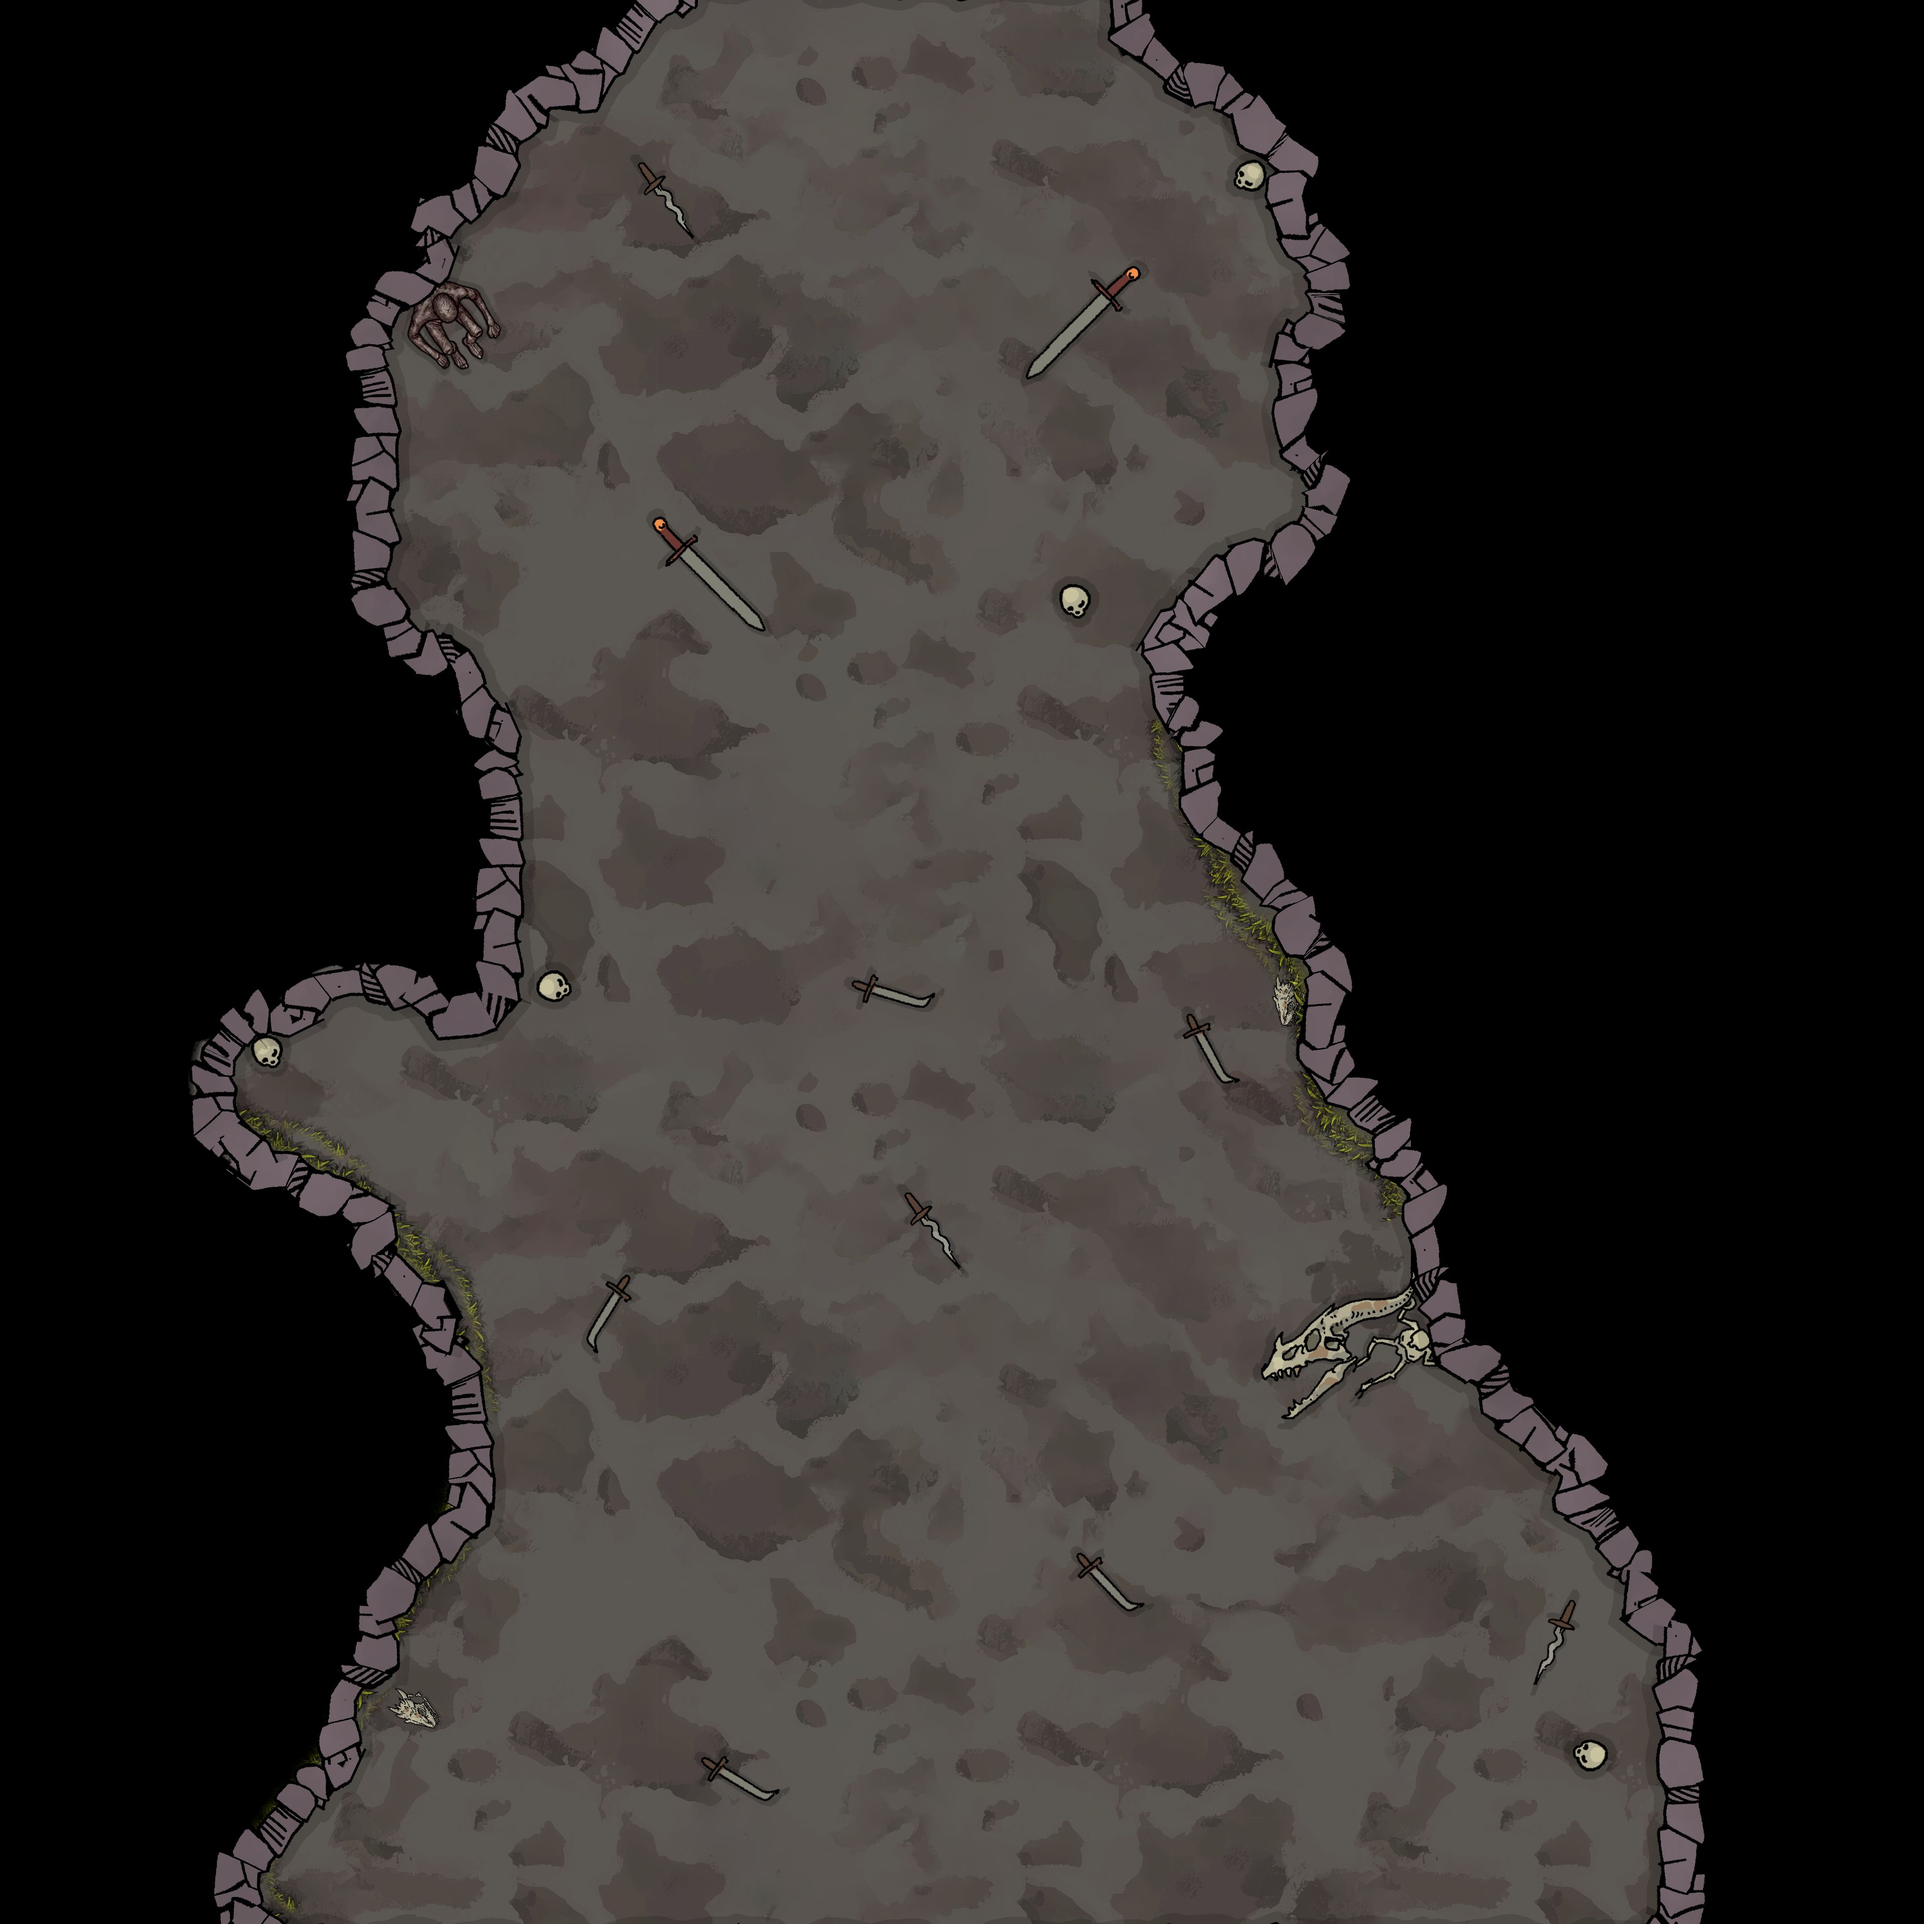
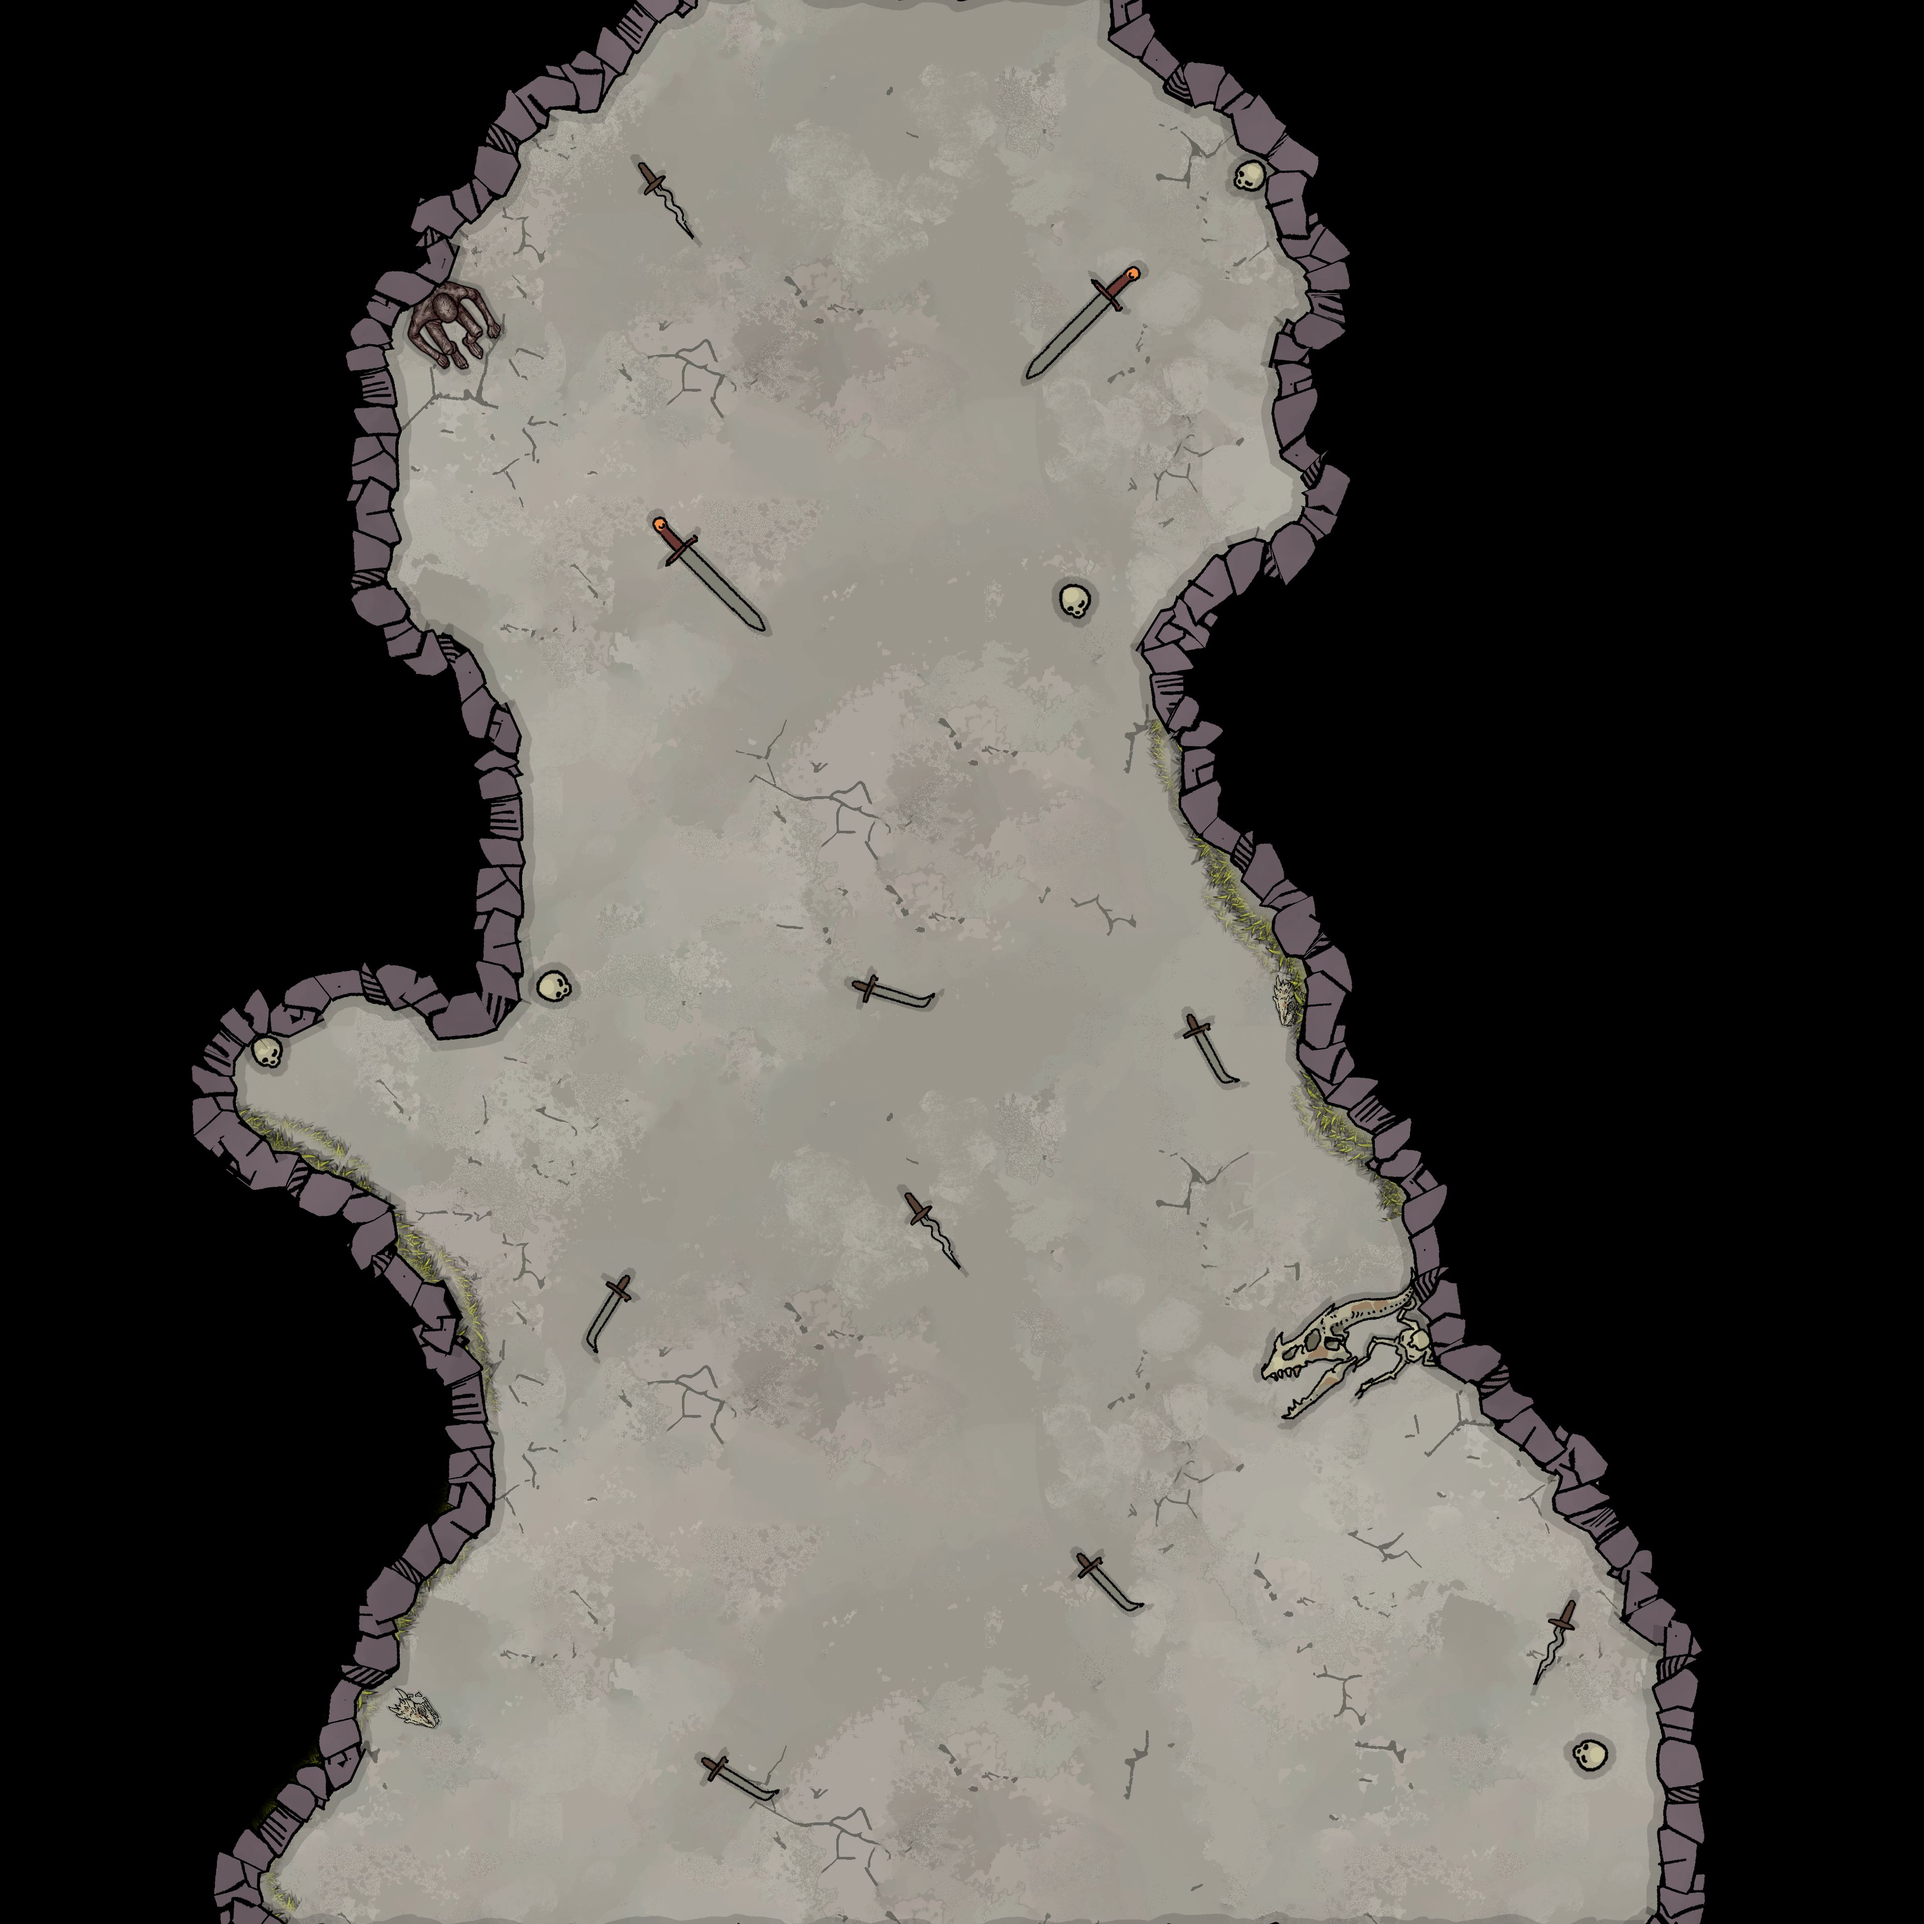
Update: Artwork and minor fixes

diff --git a/CustomMaps/CustomCreatures.tsx b/CustomMaps/CustomCreatures.tsx
@@ -161,7 +161,7 @@
   <properties>
    <property name="Id" value="Nuglub"/>
   </properties>
-  <image source="Creatures/UnknownCreature.png" width="256" height="256"/>
+  <image source="CustomCreatures/Nuglub.png" width="256" height="256"/>
  </tile>
  <tile id="27">
   <properties>

diff --git a/Dawnsbury.Mods.Creatures.RoguelikeMode/Content/Creatures/L1/DrowAssassin.cs b/Dawnsbury.Mods.Creatures.RoguelikeMode/Content/Creatures/L1/DrowAssassin.cs
@@ -2,16 +2,21 @@
 using Dawnsbury.Auxiliary;
 using Dawnsbury.Core;
 using Dawnsbury.Core.Animations;
+using Dawnsbury.Core.Animations.Movement;
 using Dawnsbury.Core.CharacterBuilder.FeatsDb.Common;
 using Dawnsbury.Core.CombatActions;
 using Dawnsbury.Core.Coroutines;
 using Dawnsbury.Core.Coroutines.Options;
 using Dawnsbury.Core.Creatures;
 using Dawnsbury.Core.Creatures.Parts;
+using Dawnsbury.Core.Intelligence;
 using Dawnsbury.Core.Mechanics;
 using Dawnsbury.Core.Mechanics.Core;
 using Dawnsbury.Core.Mechanics.Enumerations;
+using Dawnsbury.Core.Mechanics.Targeting;
 using Dawnsbury.Core.Mechanics.Treasure;
+using Dawnsbury.Core.StatBlocks;
+using Dawnsbury.Core.Tiles;
 using Dawnsbury.Mods.Creatures.RoguelikeMode.FunctionLibs;
 using Dawnsbury.Mods.Creatures.RoguelikeMode.Ids;
 
@@ -29,19 +34,22 @@ namespace Dawnsbury.Mods.Creatures.RoguelikeMode.Content.Creatures.L2 {
                             Creature stalkTarget = creature.Battle.AllCreatures.FirstOrDefault(c => c.QEffects.FirstOrDefault(qf => qf.Id == QEffectIds.Stalked && qf.Source == creature) != null);
 
                             if (stalkTarget != null) {
-                                AiFuncs.PositionalGoodness(creature, options, (pos, thisCreature, step, otherCreature) => otherCreature == stalkTarget && pos.DistanceTo(stalkTarget.Occupies) <= 5 && pos.DistanceTo(stalkTarget.Occupies) >= 3 && pos.HasLineOfEffectToIgnoreLesser(stalkTarget.Occupies) <= CoverKind.Standard, 10);
+                                var path = Pathfinding.GetPath(creature, stalkTarget.Occupies, creature.Battle, new PathfindingDescription() {
+                                    Squares = 100,
+                                    Style = new MovementStyle() {
+                                        ForcedMovement = false,
+                                        MaximumSquares = 100,
+                                        IgnoresUnevenTerrain = false,
+                                        PermitsStep = true,
+                                        Shifting = false
+                                    }
+                                });
+
+                                if (path != null && path.Count > 0 && creature.Speed > 0) {
+                                    return options.Where(opt => opt.OptionKind == OptionKind.MoveHere).ToList().ConvertAll<TileOption>(opt => (TileOption)opt).MinBy(opt => opt.Tile.DistanceTo(path[Math.Min(creature.Speed - 1, path.Count - 1)]));
+
+                                }
                             }
-                            //foreach (Option option in options.Where(o => o.OptionKind == OptionKind.MoveHere && o.AiUsefulness.ObjectiveAction != null && o.AiUsefulness.ObjectiveAction.Action.ActionId == ActionId.Sneak)) {
-                            //    TileOption? option2 = option as TileOption;
-                            //    if (option2 != null && option2.Tile.DistanceTo(stalkTarget.Occupies) <= 5 && option2.Tile.HasLineOfEffectTo(stalkTarget.Occupies) <= CoverKind.Standard) {
-                            //        option2.AiUsefulness.MainActionUsefulness += 10;
-                            //    }
-                            //}
-                            //foreach (Option option in options.Where(o => o.OptionKind != OptionKind.MoveHere)) {
-                            //    if (creature.Occupies.DistanceTo(stalkTarget.Occupies) <= 5 && creature.HasLineOfEffectTo(stalkTarget.Occupies) <= CoverKind.Standard) {
-                            //        option.AiUsefulness.MainActionUsefulness += 15;
-                            //    }
-                            //}
                         }
 
                         return null;
@@ -120,8 +128,8 @@ namespace Dawnsbury.Mods.Creatures.RoguelikeMode.Content.Creatures.L2 {
                         if (target.QEffects.FirstOrDefault(qf => qf.Id == QEffectIds.Stalked && qf.Source == self.Owner) != null) {
                             return 30f;
                         }
-                        //return -10f;
-                        return 0f;
+                        return -10f;
+                        //return 0f;
                     }
                 })
                 .AddQEffect(CommonQEffects.Drow())

diff --git a/Dawnsbury.Mods.Creatures.RoguelikeMode/Illustrations.cs b/Dawnsbury.Mods.Creatures.RoguelikeMode/Illustrations.cs
@@ -52,6 +52,8 @@ namespace Dawnsbury.Mods.Creatures.RoguelikeMode
         internal static ModdedIllustration Homunculus = new ModdedIllustration("RoguelikeModeAssets/Enemies/Homunculus.png");
         internal static ModdedIllustration CrawlingHand = new ModdedIllustration("RoguelikeModeAssets/Enemies/CrawlingHand.png");
         internal static ModdedIllustration BebilithSpawn = new ModdedIllustration("RoguelikeModeAssets/Enemies/BebilithSpawn.png");
+        internal static ModdedIllustration Nuglub = new ModdedIllustration("RoguelikeModeAssets/Enemies/Nuglub.png");
+        internal static ModdedIllustration Owlbear = new ModdedIllustration("RoguelikeModeAssets/Enemies/Owlbear.png");
 
         // Items
         internal static ModdedIllustration Wand = new ModdedIllustration("RoguelikeModeAssets/Items/Wand.png");
@@ -85,5 +87,6 @@ namespace Dawnsbury.Mods.Creatures.RoguelikeMode
 
         // Other
         internal static ModdedIllustration StatusBackdrop = new ModdedIllustration("RoguelikeModeAssets/Other/StatusBackdrop.png");
+        internal static ModdedIllustration BaneCircleWhite = new ModdedIllustration("RoguelikeModeAssets/Other/BaneCircleWhite.png");
     }
 }

diff --git a/Dawnsbury.Mods.Creatures.RoguelikeMode/Content/Creatures/L2/Nuglub.cs b/Dawnsbury.Mods.Creatures.RoguelikeMode/Content/Creatures/L2/Nuglub.cs
@@ -23,7 +23,7 @@ namespace Dawnsbury.Mods.Creatures.RoguelikeMode.Content.Creatures.L2
     {
         public static Creature Create()
         {
-            return new Creature(IllustrationName.UnknownCreature, "Nuglub", [Trait.Chaotic, Trait.Evil, Trait.Fey, Trait.Gremlin], 2, 5, 6, new Defenses(18, 9, 10, 5), 34, new Abilities(1, 4, 3, -1, -1, 1), new Skills(acrobatics: 8, crafting: 5, intimidation: 7, stealth: 8))
+            return new Creature(Illustrations.Nuglub, "Nuglub", [Trait.Chaotic, Trait.Evil, Trait.Fey, Trait.Gremlin], 2, 5, 6, new Defenses(18, 9, 10, 5), 34, new Abilities(1, 4, 3, -1, -1, 1), new Skills(acrobatics: 8, crafting: 5, intimidation: 7, stealth: 8))
                     .WithCharacteristics(false, true)
                     .AddQEffect(QEffect.DamageWeakness(Trait.ColdIron, 2))
                     .AddQEffect(new QEffect("Kneecapper {icon:Reaction}", "When an adjacent creature uses a move action, you can make an Acrobatics check against the creature's Reflex DC. On a success, disrupt the action and the target falls and lands prone.")

diff --git a/Dawnsbury.Mods.Creatures.RoguelikeMode/FunctionLibs/CommonQEffects.cs b/Dawnsbury.Mods.Creatures.RoguelikeMode/FunctionLibs/CommonQEffects.cs
@@ -502,6 +502,9 @@ namespace Dawnsbury.Mods.Creatures.RoguelikeMode.FunctionLibs {
             };
         }
 
+        /// <summary>
+        /// Creature with this qeffect should be counted as two creatures for the purpose of encounter balancing. You can use it to create a boss monster with appropriate stats, without also giving them a frustrating amount of AC.
+        /// </summary>
         public static QEffect MiniBoss() {
             QEffect effect = new QEffect("Powerful Adversary", "The first time this creature acts each round while above half HP, it only drops down two places in the intitive order. In addition it has significantly increased HP for its level.") {
                 StartOfCombat = async self => {

diff --git a/Dawnsbury.Mods.Creatures.RoguelikeMode/Content/Creatures/L4/OwlBear.cs b/Dawnsbury.Mods.Creatures.RoguelikeMode/Content/Creatures/L4/OwlBear.cs
@@ -72,7 +72,7 @@ namespace Dawnsbury.Mods.Creatures.RoguelikeMode.Content.Creatures.L2
 
                 return null;
             };
-            return new Creature(IllustrationName.UnknownCreature, "Owl Bear", [Trait.Animal], 4, 14, 5, new Defenses(21, 13, 7, 11), 70, new Abilities(6, 1, 5, -4, 3, 0), new Skills(acrobatics: 7, athletics: 14, intimidation: 10))
+            return new Creature(Illustrations.Owlbear, "Owl Bear", [Trait.Animal], 4, 14, 5, new Defenses(21, 13, 7, 11), 70, new Abilities(6, 1, 5, -4, 3, 0), new Skills(acrobatics: 7, athletics: 14, intimidation: 10))
                 .WithAIModification(ai =>
                 {
                     ai.OverrideDecision = (self, options) =>

diff --git a/Dawnsbury.Mods.Creatures.RoguelikeMode/Content/Objects/L2/SpiderQueenShrine.cs b/Dawnsbury.Mods.Creatures.RoguelikeMode/Content/Objects/L2/SpiderQueenShrine.cs
@@ -37,7 +37,7 @@ namespace Dawnsbury.Mods.Creatures.RoguelikeMode.Content.Creatures.L2 {
             .WithHardness(7)
             ;
 
-            var animation = hazard.AnimationData.AddAuraAnimation(IllustrationName.KineticistAuraCircle, radius);
+            var animation = hazard.AnimationData.AddAuraAnimation(IllustrationName.BaneCircle, radius);
             animation.Color = Color.Black;
 
             QEffect effect = new QEffect("Blessings of the Spider Queen", $"All spiders, demons and drow within {radius * 5}-feet of this shrine gain a +1 bonus to AC, saves and attacks rolls.");

diff --git a/Dawnsbury.Mods.Creatures.RoguelikeMode/RoguelikeModeAssets/Art Accreditation.md b/Dawnsbury.Mods.Creatures.RoguelikeMode/RoguelikeModeAssets/Art Accreditation.md
@@ -44,6 +44,7 @@
 	<li>AnimalFormSnake.png (Modified)</li>
 	<li>AnimalFormWolf.png (Modified)</li>
 	<li>CloakOfAir.png (Modified)</li>
+	<li>BaneCircleWhite.png (Modified)</li>
 </ul>
 
 ## Self Produced Assets
